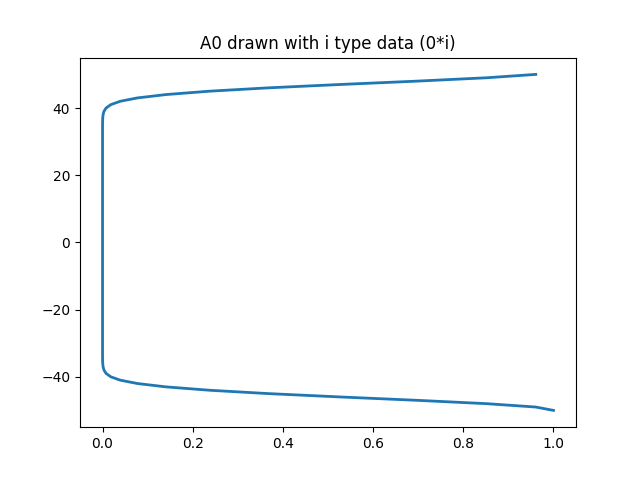
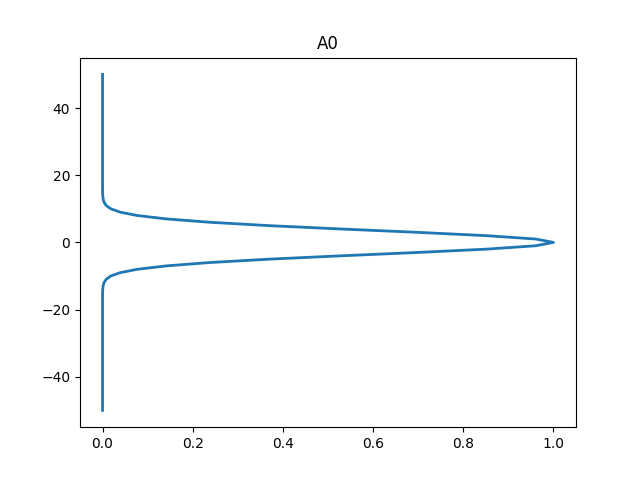
found and corrected one mistake

diff --git a/PDE.py b/PDE.py
@@ -59,16 +59,13 @@ for i in range (0,y_steps-1):
 a0 = np.zeros((y_steps, 1), dtype=np.complex_)
 for i in range(0, y_steps):
     y = y_points[i]
-    a0[y, 0] = math.exp(-k*k*(y*y))
+    a0[i, 0] = complex(math.exp(-k*k*(y*y)), 0)
 
 
 s = [row[0] for row in a0]
 
 
-a1 = []
-for i in range(0, y_steps):
-    y = y_points[i]
-    a1.append(math.exp(-k*k*(y*y)))
+
 
 
 
@@ -95,7 +92,7 @@ b = np.ones(y_steps, dtype=np.complex_)*2*(1+D)
 
 A = np.zeros((y_steps, 1), dtype=np.complex_) # calculated a_n
 for i in range(len(a0)):
-    A[i, 0] = a0[i]
+    A[i, 0] = complex(a0[i], 0)
 
 
 
@@ -112,26 +109,15 @@ np.set_printoptions(precision=3)
 
 #print(A[:, 0])
 
-x = a1
-y = y_points
-
-# plot
-fig, ax = plt.subplots()
-
-ax.plot(x, y, linewidth=2.0)
-plt.title("A0 drawn real data type vector")
-plt.show()
-fig.savefig('lineA0-.png')
-
 # make data
-x = A[:, 0]
+x = A[:, 0].real
 y = y_points
 
 # plot
 fig, ax = plt.subplots()
 
 ax.plot(x, y, linewidth=2.0)
-plt.title("A0 drawn with i type data (0*i)")
+plt.title("A0")
 plt.show()
 fig.savefig('lineA0.png')
 
@@ -164,7 +150,7 @@ y = y_points
 # plot
 fig, ax = plt.subplots()
 ax.plot(x, y, linewidth=2.0)
-plt.title("A1")
+plt.title("A3")
 plt.show()
 fig.savefig('lineA3.png')
 
